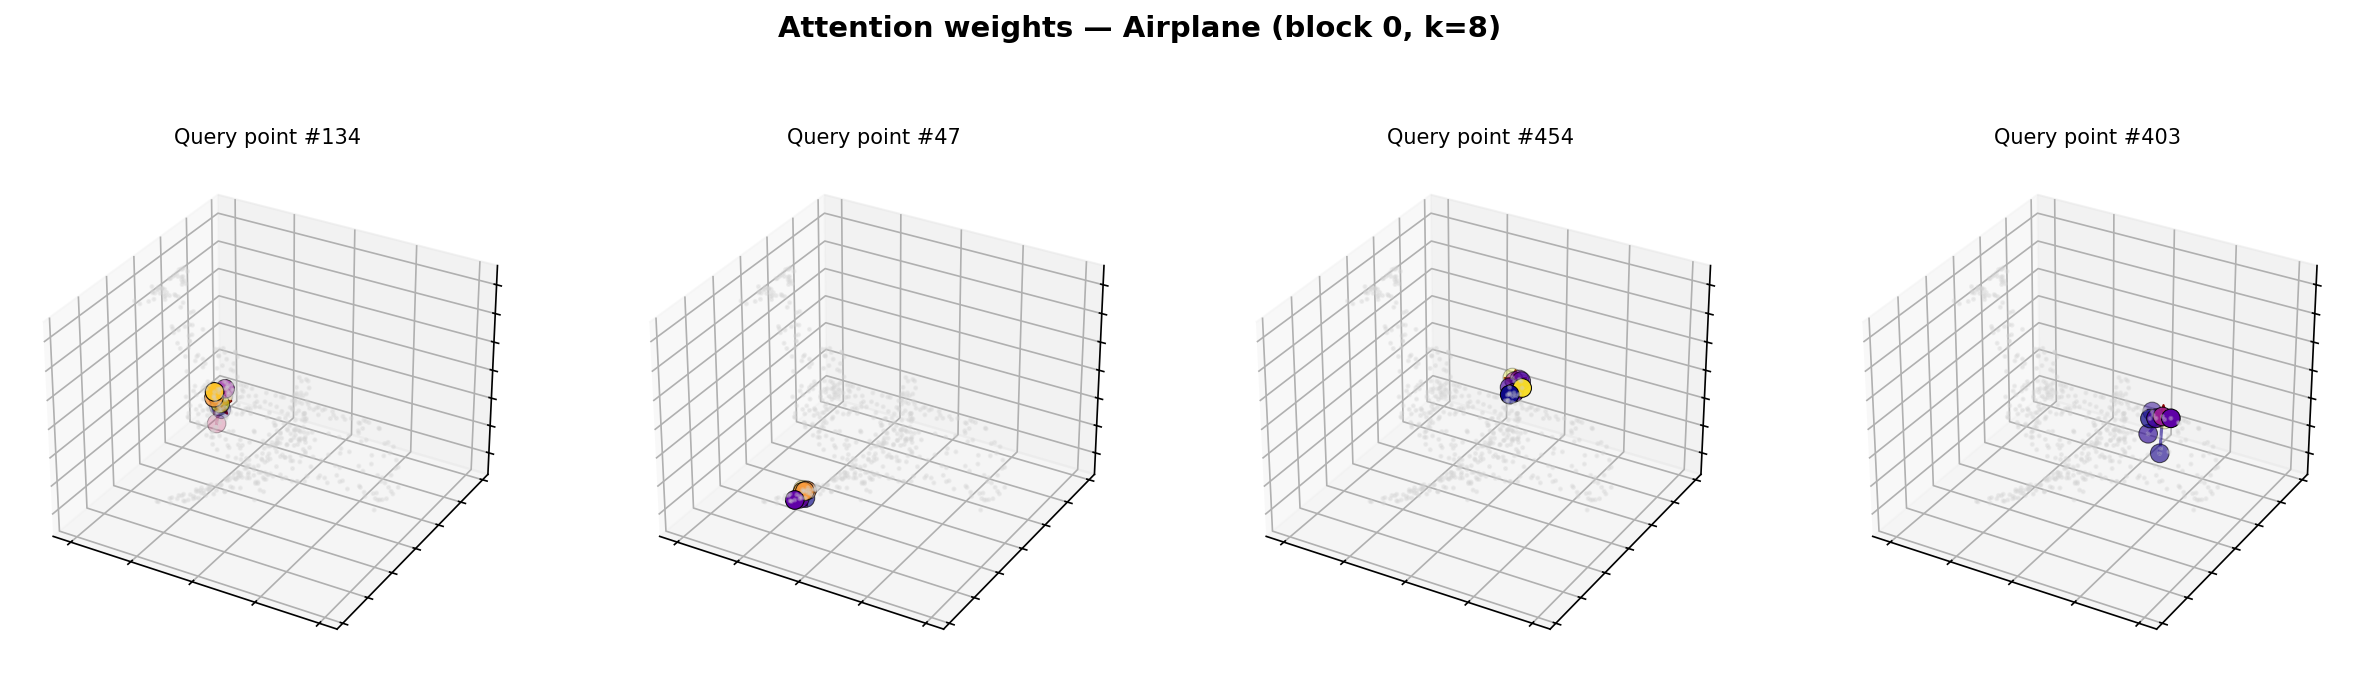
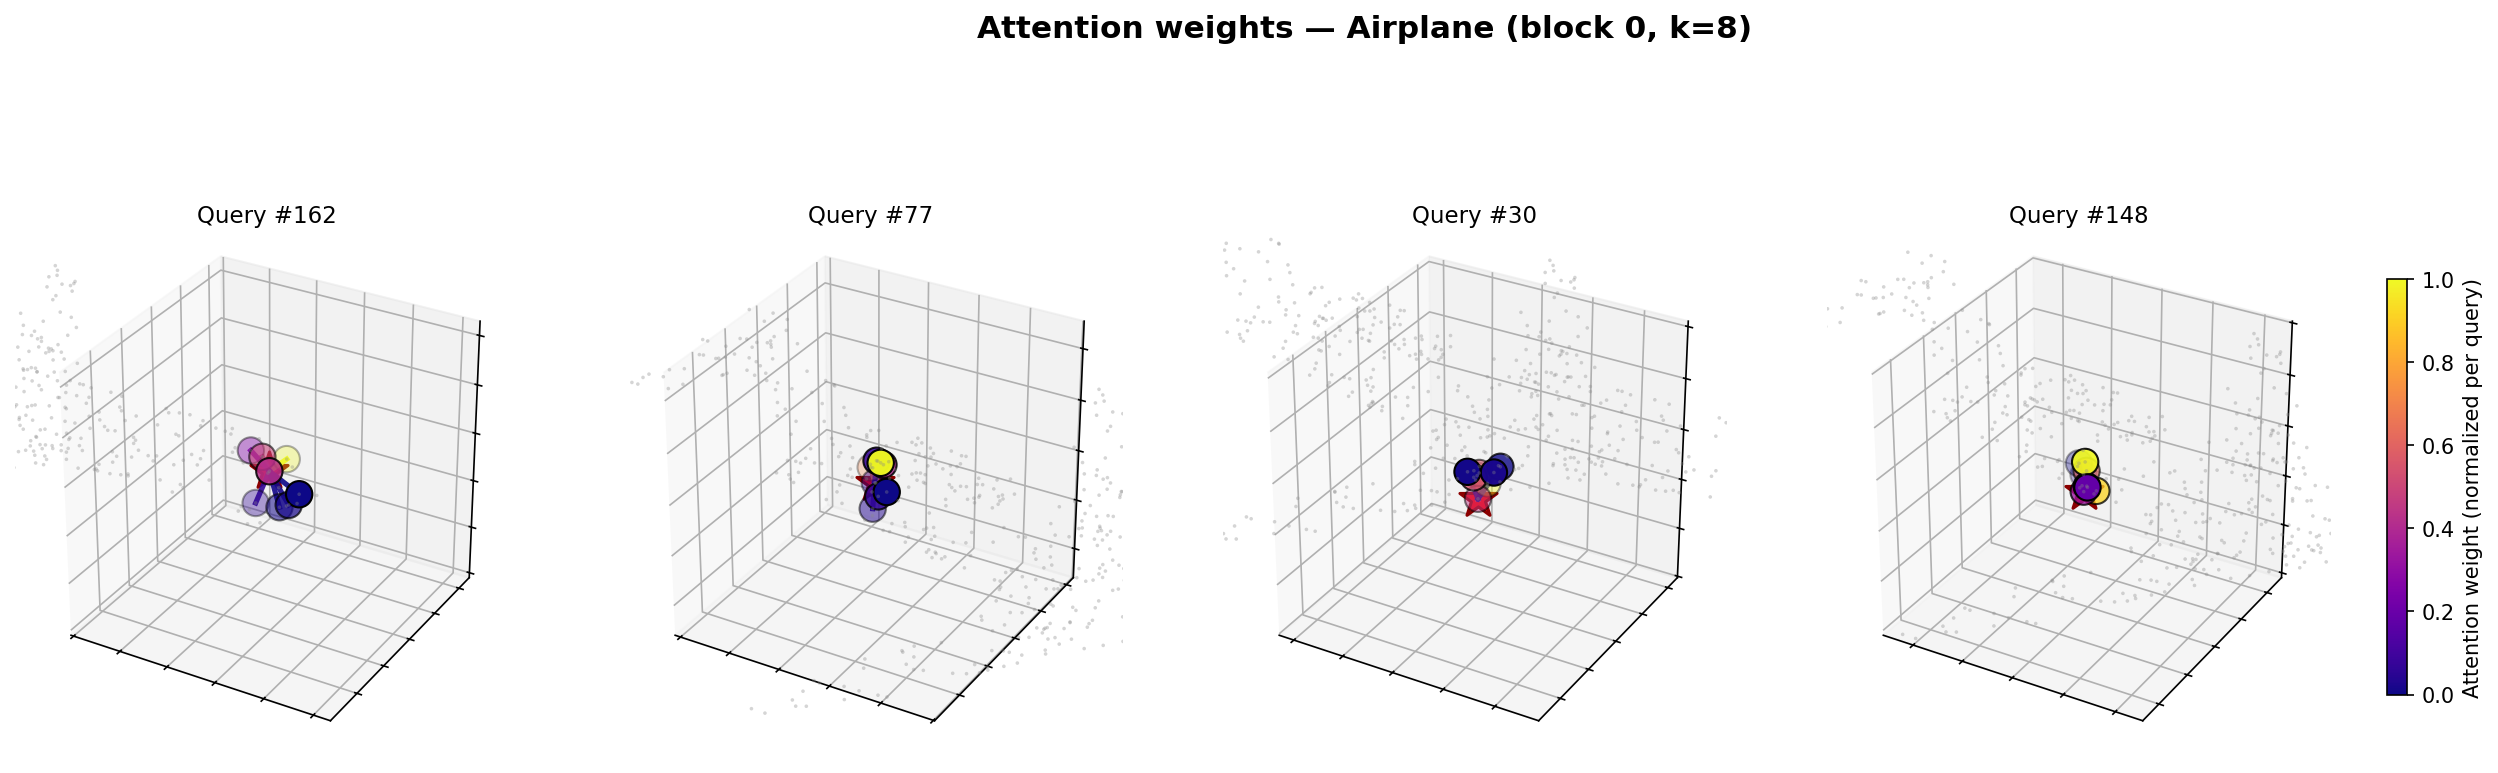
Improve visualizations: readable shapes, equal aspect, honest accuracy
- Classification grid: 2048 points (vs 512), candidate pool of 40 objects to
  surface real misclassifications instead of cherry-picking 8/8 correct
- Segmentation viz: English titles, enforce equal 3D aspect ratio so the
  airplane is no longer flattened by default matplotlib scaling
- Attention viz: full object shown in grey background, zoom scales with both
  local neighborhood and object size, removed unreadable numeric labels,
  larger query markers and thicker edges

diff --git a/visualize_attention.py b/visualize_attention.py
@@ -2,8 +2,10 @@
 """
 Visualise attention weights from the Point Transformer on a single object.
 
-For a chosen query point (red), colors every neighbor by the attention weight
-it received.  Bright yellow = high attention, dark purple = low.
+For each query point (red star), the full object is shown in light grey for
+context, then the k nearest neighbors of the query point are colored by the
+attention weight they received (bright = high attention, dark = low).
+Lines connect the query to its neighbors.
 """
 
 from __future__ import annotations
@@ -27,12 +29,11 @@ def parse_args() -> argparse.Namespace:
     p.add_argument("--data_root", type=str, default="./data/ShapeNet")
     p.add_argument("--checkpoint", type=str, default="checkpoint_best.pt")
     p.add_argument("--category", type=str, default="Airplane")
-    p.add_argument("--num_points", type=int, default=512)
+    p.add_argument("--num_points", type=int, default=2048)
     p.add_argument("--dim", type=int, default=64)
     p.add_argument("--num_blocks", type=int, default=2)
     p.add_argument("--k", type=int, default=8)
-    p.add_argument("--num_query_points", type=int, default=4,
-                   help="Number of query points to visualize")
+    p.add_argument("--num_query_points", type=int, default=4)
     p.add_argument("--save", type=str, default="vis_attention.png")
     return p.parse_args()
 
@@ -58,9 +59,19 @@ def extract_attention_weights(model: nn.Module, x: torch.Tensor, pos: torch.Tens
             attn = softmax(attn, index=col, dim=0)
 
             attn_scalar = attn.mean(dim=-1)
-            return edge_index, attn_scalar, h_norm
+            return edge_index, attn_scalar
         h = blk(h, pos, batch)
     raise ValueError(f"block_idx {block_idx} out of range")
+
+
+def equal_axes_around(ax, center: np.ndarray, radius: float) -> None:
+    ax.set_xlim(center[0] - radius, center[0] + radius)
+    ax.set_ylim(center[2] - radius, center[2] + radius)
+    ax.set_zlim(center[1] - radius, center[1] + radius)
+    try:
+        ax.set_box_aspect([1, 1, 1])
+    except AttributeError:
+        pass
 
 
 def main() -> None:
@@ -87,7 +98,7 @@ def main() -> None:
 
     batch = torch.zeros(data.pos.size(0), dtype=torch.long)
     with torch.no_grad():
-        edge_index, attn_weights, _ = extract_attention_weights(model, data.x, data.pos, batch, block_idx=0)
+        edge_index, attn_weights = extract_attention_weights(model, data.x, data.pos, batch, block_idx=0)
 
     row, col = edge_index.numpy()
     pos = data.pos.numpy()
@@ -97,14 +108,15 @@ def main() -> None:
     query_points = random.sample(range(n_pts), min(args.num_query_points, n_pts))
 
     cols = len(query_points)
-    fig = plt.figure(figsize=(5 * cols, 5))
+    fig = plt.figure(figsize=(6 * cols, 6))
     fig.suptitle(f"Attention weights — {args.category} (block 0, k={args.k})",
-                 fontsize=14, fontweight="bold", y=1.02)
+                 fontsize=15, fontweight="bold", y=1.02)
 
     for plot_i, qp in enumerate(query_points):
         ax = fig.add_subplot(1, cols, plot_i + 1, projection="3d")
 
-        ax.scatter(pos[:, 0], pos[:, 2], pos[:, 1], c="lightgrey", s=2, alpha=0.3)
+        ax.scatter(pos[:, 0], pos[:, 2], pos[:, 1],
+                   c="#888888", s=3, alpha=0.35, edgecolors="none", zorder=1)
 
         neighbor_mask = col == qp
         neighbor_idx = row[neighbor_mask]
@@ -112,29 +124,44 @@ def main() -> None:
 
         if len(neighbor_attn) > 0:
             a_min, a_max = neighbor_attn.min(), neighbor_attn.max()
-            if a_max > a_min:
-                norm_attn = (neighbor_attn - a_min) / (a_max - a_min)
-            else:
-                norm_attn = np.ones_like(neighbor_attn)
-            colors = plt.cm.plasma(norm_attn)
-            ax.scatter(pos[neighbor_idx, 0], pos[neighbor_idx, 2], pos[neighbor_idx, 1],
-                       c=colors, s=80, edgecolors="black", linewidths=0.5, zorder=5)
+            norm_attn = (neighbor_attn - a_min) / (a_max - a_min + 1e-9)
+
             for ni, na in zip(neighbor_idx, norm_attn):
                 ax.plot3D([pos[qp, 0], pos[ni, 0]],
                           [pos[qp, 2], pos[ni, 2]],
                           [pos[qp, 1], pos[ni, 1]],
-                          color=plt.cm.plasma(na), alpha=0.6, linewidth=1.5)
+                          color=plt.cm.plasma(na), alpha=0.9, linewidth=2.5, zorder=3)
+
+            colors = plt.cm.plasma(norm_attn)
+            ax.scatter(pos[neighbor_idx, 0], pos[neighbor_idx, 2], pos[neighbor_idx, 1],
+                       c=colors, s=160, edgecolors="black", linewidths=1.0, zorder=5)
 
         ax.scatter([pos[qp, 0]], [pos[qp, 2]], [pos[qp, 1]],
-                   c="red", s=120, marker="*", edgecolors="darkred", linewidths=1, zorder=10)
+                   c="red", s=350, marker="*", edgecolors="darkred",
+                   linewidths=1.5, zorder=10)
 
-        ax.set_title(f"Query point #{qp}", fontsize=10)
+        if len(neighbor_idx) > 0:
+            local_pts = pos[list(neighbor_idx) + [qp]]
+            center = local_pts.mean(axis=0)
+            local_radius = np.linalg.norm(local_pts - center, axis=1).max()
+            obj_range = (pos.max(axis=0) - pos.min(axis=0)).max() / 2
+            radius = max(local_radius * 4.0, obj_range * 0.35)
+        else:
+            center = pos[qp]
+            radius = (pos.max(axis=0) - pos.min(axis=0)).max() / 4
+        equal_axes_around(ax, center, radius)
+
+        ax.set_title(f"Query #{qp}", fontsize=11)
         ax.set_xticklabels([])
         ax.set_yticklabels([])
         ax.set_zticklabels([])
         ax.grid(True, alpha=0.2)
 
-    plt.tight_layout()
+    sm = plt.cm.ScalarMappable(cmap="plasma", norm=plt.Normalize(vmin=0, vmax=1))
+    sm.set_array([])
+    cbar = fig.colorbar(sm, ax=fig.axes, shrink=0.6, pad=0.02)
+    cbar.set_label("Attention weight (normalized per query)", fontsize=10)
+
     plt.savefig(args.save, dpi=150, bbox_inches="tight")
     print(f"Image saved: {args.save}")
 

diff --git a/visualize_classification.py b/visualize_classification.py
@@ -1,8 +1,10 @@
 #!/usr/bin/env python3
 """
-Visualise classification predictions on random ShapeNet objects.
+Visualise classification predictions on ShapeNet test objects.
 
 Produces a grid of point clouds, each titled with the true and predicted category.
+Samples many candidates and picks a mix that includes at least one wrong
+prediction (honest visual evidence, not cherry-picked).
 """
 
 from __future__ import annotations
@@ -11,6 +13,7 @@ import argparse
 import random
 
 import matplotlib.pyplot as plt
+import numpy as np
 import torch
 from torch_geometric.datasets import ShapeNet
 
@@ -26,12 +29,28 @@ def parse_args() -> argparse.Namespace:
     p.add_argument("--data_root", type=str, default="./data/ShapeNet")
     p.add_argument("--checkpoint", type=str, default="checkpoint_best.pt")
     p.add_argument("--num_samples", type=int, default=8)
-    p.add_argument("--num_points", type=int, default=512)
+    p.add_argument("--num_points", type=int, default=2048)
     p.add_argument("--dim", type=int, default=64)
     p.add_argument("--num_blocks", type=int, default=2)
     p.add_argument("--k", type=int, default=8)
+    p.add_argument("--pool_size", type=int, default=40,
+                   help="How many candidates to draw from before selecting the grid")
     p.add_argument("--save", type=str, default="vis_classification.png")
     return p.parse_args()
+
+
+def equal_axes(ax, pos: np.ndarray) -> None:
+    mins = pos.min(axis=0)
+    maxs = pos.max(axis=0)
+    centers = (maxs + mins) / 2
+    max_range = (maxs - mins).max() / 2
+    ax.set_xlim(centers[0] - max_range, centers[0] + max_range)
+    ax.set_ylim(centers[2] - max_range, centers[2] + max_range)
+    ax.set_zlim(centers[1] - max_range, centers[1] + max_range)
+    try:
+        ax.set_box_aspect([1, 1, 1])
+    except AttributeError:
+        pass
 
 
 def main() -> None:
@@ -47,38 +66,57 @@ def main() -> None:
     model.load_state_dict(ckpt["model"])
     model.eval()
 
-    indices = random.sample(range(len(dataset)), min(args.num_samples, len(dataset)))
-    cols = 4
-    rows = (len(indices) + cols - 1) // cols
-    fig = plt.figure(figsize=(4.5 * cols, 4 * rows))
-    fig.suptitle("Classification: Point Transformer on ShapeNet", fontsize=16, fontweight="bold", y=0.98)
-
-    for plot_idx, data_idx in enumerate(indices):
-        raw = dataset[data_idx]
-        data = subsample_points(raw, args.num_points, use_normals=True)
-
-        cat_idx = raw.category.item() if torch.is_tensor(raw.category) else int(raw.category)
-        true_name = CATEGORIES[cat_idx]
-
-        with torch.no_grad():
+    pool_ids = random.sample(range(len(dataset)), min(args.pool_size, len(dataset)))
+    results = []
+    with torch.no_grad():
+        for data_idx in pool_ids:
+            raw = dataset[data_idx]
+            data = subsample_points(raw, args.num_points, use_normals=True)
+            cat_idx = raw.category.item() if torch.is_tensor(raw.category) else int(raw.category)
             batch = torch.zeros(data.pos.size(0), dtype=torch.long)
-            logits = model(data.x, data.pos, batch)
-            pred_idx = logits.argmax(dim=-1).item()
-        pred_name = CATEGORIES[pred_idx]
+            pred_idx = model(data.x, data.pos, batch).argmax(dim=-1).item()
+            results.append((data_idx, cat_idx, pred_idx, data.pos.clone()))
 
-        correct = pred_idx == cat_idx
-        color = "green" if correct else "red"
+    wrong = [r for r in results if r[2] != r[1]]
+    correct = [r for r in results if r[2] == r[1]]
+    random.shuffle(correct)
+
+    n_wrong = min(len(wrong), max(1, args.num_samples // 4))
+    picked = wrong[:n_wrong] + correct[: args.num_samples - n_wrong]
+    random.shuffle(picked)
+    picked = picked[: args.num_samples]
+
+    cols = 4
+    rows = (len(picked) + cols - 1) // cols
+    fig = plt.figure(figsize=(4.5 * cols, 4.5 * rows))
+    fig.suptitle("Classification: Point Transformer on ShapeNet",
+                 fontsize=16, fontweight="bold", y=0.98)
+
+    for plot_idx, (_, cat_idx, pred_idx, pos) in enumerate(picked):
+        true_name = CATEGORIES[cat_idx]
+        pred_name = CATEGORIES[pred_idx]
+        correct_pred = pred_idx == cat_idx
+        color = "#2ca02c" if correct_pred else "#d62728"
 
         ax = fig.add_subplot(rows, cols, plot_idx + 1, projection="3d")
-        pos = data.pos.numpy()
-        ax.scatter(pos[:, 0], pos[:, 2], pos[:, 1], c=pos[:, 1], cmap="viridis", s=2, alpha=0.7)
-        ax.set_title(f"GT: {true_name}\nPred: {pred_name}", fontsize=10, color=color, fontweight="bold")
+        pts = pos.numpy()
+        ax.scatter(pts[:, 0], pts[:, 2], pts[:, 1],
+                   c=pts[:, 1], cmap="viridis", s=4, alpha=0.8, edgecolors="none")
+        equal_axes(ax, pts)
+        ax.set_title(f"GT: {true_name}   |   Pred: {pred_name}",
+                     fontsize=11, color=color, fontweight="bold")
         ax.set_xticklabels([])
         ax.set_yticklabels([])
         ax.set_zticklabels([])
         ax.grid(True, alpha=0.2)
 
-    plt.tight_layout(rect=[0, 0, 1, 0.95])
+    total_correct = sum(1 for _, c, p, _ in picked if c == p)
+    fig.text(0.5, 0.01,
+             f"Grid accuracy: {total_correct}/{len(picked)} "
+             f"(pool accuracy: {sum(1 for r in results if r[1]==r[2])}/{len(results)})",
+             ha="center", fontsize=11, color="#444444")
+
+    plt.tight_layout(rect=[0, 0.03, 1, 0.95])
     plt.savefig(args.save, dpi=150, bbox_inches="tight")
     print(f"Image saved: {args.save}")
 

diff --git a/visualize.py b/visualize.py
@@ -54,17 +54,28 @@ def subsample(data, num_points: int):
 
 
 def plot_pointcloud(ax, pos, labels, title: str, valid_parts: list[int]) -> None:
-    """Affiche un nuage de points coloré par label de pièce."""
+    """Render a point cloud colored by part label with equal 3D aspect ratio."""
     pos = pos.numpy()
     labels = labels.numpy()
     part_to_local = {p: i for i, p in enumerate(sorted(valid_parts))}
     colors = [COLORS[part_to_local.get(l, 0) % len(COLORS)] for l in labels]
-    ax.scatter(pos[:, 0], pos[:, 2], pos[:, 1], c=colors, s=3, alpha=0.8)
+    ax.scatter(pos[:, 0], pos[:, 2], pos[:, 1], c=colors, s=8, alpha=0.85, edgecolors="none")
     ax.set_title(title, fontsize=12)
     ax.set_xlabel("x")
     ax.set_ylabel("z")
     ax.set_zlabel("y")
-    ax.set_aspect("equal")
+
+    mins = pos.min(axis=0)
+    maxs = pos.max(axis=0)
+    centers = (maxs + mins) / 2
+    max_range = (maxs - mins).max() / 2
+    ax.set_xlim(centers[0] - max_range, centers[0] + max_range)
+    ax.set_ylim(centers[2] - max_range, centers[2] + max_range)
+    ax.set_zlim(centers[1] - max_range, centers[1] + max_range)
+    try:
+        ax.set_box_aspect([1, 1, 1])
+    except AttributeError:
+        pass
     ax.grid(True, alpha=0.3)
 
 
@@ -118,10 +129,10 @@ def main() -> None:
     fig.suptitle(f"{cat_name} (#{idx}) — accuracy: {accuracy:.1f}%", fontsize=14, fontweight="bold")
 
     ax1 = fig.add_subplot(121, projection="3d")
-    plot_pointcloud(ax1, data.pos, gt, "Vérité terrain", valid_parts)
+    plot_pointcloud(ax1, data.pos, gt, "Ground truth", valid_parts)
 
     ax2 = fig.add_subplot(122, projection="3d")
-    plot_pointcloud(ax2, data.pos, pred, "Prédiction du modèle", valid_parts)
+    plot_pointcloud(ax2, data.pos, pred, "Prediction", valid_parts)
 
     plt.tight_layout()
     if args.save:
